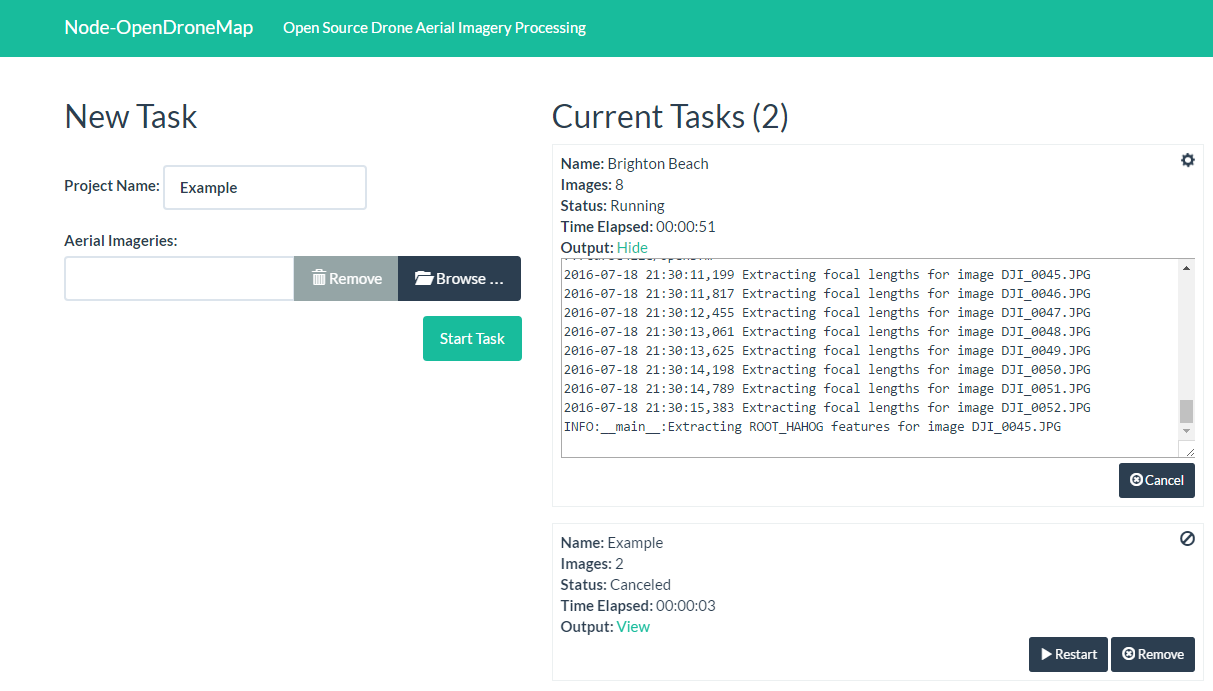
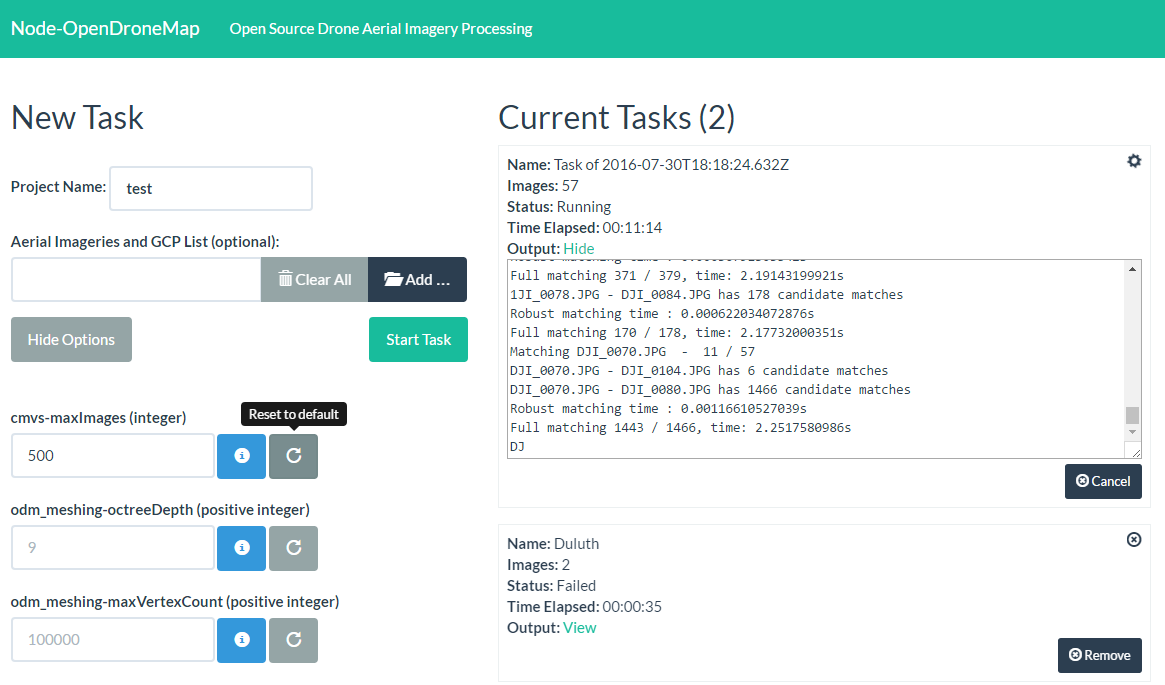
GPC files support, cleanups, options support, testing

diff --git a/libs/Task.js b/libs/Task.js
@@ -16,8 +16,12 @@ You should have received a copy of the GNU General Public License
 along with this program.  If not, see <http://www.gnu.org/licenses/>.
 */
 "use strict";
+
+let async = require('async');
 let assert = require('assert');
+let logger = require('./logger');
 let fs = require('fs');
+let path = require('path');
 let rmdir = require('rimraf');
 let odmRunner = require('./odmRunner');
 let archiver = require('archiver');
@@ -36,16 +40,40 @@ module.exports = class Task{
 		this.processingTime = -1;
 		this.setStatus(statusCodes.QUEUED);
 		this.options = options;
+		this.gpcFiles = [];
 		this.output = [];
 		this.runnerProcess = null;
 
-		// Read images info
-		fs.readdir(this.getImagesFolderPath(), (err, files) => {
-			if (err) done(err);
-			else{
-				this.images = files;
-				done(null, this);
+		async.series([
+			// Read images info
+			cb => {
+				fs.readdir(this.getImagesFolderPath(), (err, files) => {
+					if (err) cb(err);
+					else{
+						this.images = files;
+						logger.debug(`Found ${this.images.length} images for ${this.uuid}`)
+						cb(null);
+					}
+				});
+			},
+
+			// Find GCP (if any)
+			cb => {
+				fs.readdir(this.getGpcFolderPath(), (err, files) => {
+					if (err) cb(err);
+					else{
+						files.forEach(file => {
+							if (/\.txt$/gi.test(file)){
+								this.gpcFiles.push(file);
+							}
+						});
+						logger.debug(`Found ${this.gpcFiles.length} GPC files (${this.gpcFiles.join(" ")}) for ${this.uuid}`);
+						cb(null);
+					}
+				});
 			}
+		], err => {
+			done(err, this);
 		});
 	}
 
@@ -72,6 +100,12 @@ module.exports = class Task{
 	// (relative to nodejs process CWD)
 	getImagesFolderPath(){
 		return `${this.getProjectFolderPath()}/images`;
+	}
+
+	// Get path where GPC file(s) are stored
+	// (relative to nodejs process CWD)
+	getGpcFolderPath(){
+		return `${this.getProjectFolderPath()}/gpc`;
 	}
 
 	// Get path of project (where all images and assets folder are contained)
@@ -194,8 +228,13 @@ module.exports = class Task{
 				return result;
 			}, {});
 
-			runnerOptions["project-path"] = `${__dirname}/../${this.getProjectFolderPath()}`;
+			runnerOptions["project-path"] = fs.realpathSync(this.getProjectFolderPath());
 			runnerOptions["pmvs-num-cores"] = os.cpus().length;
+
+			if (this.gpcFiles.length > 0){
+				runnerOptions["odm_georeferencing-useGcp"] = true;
+				runnerOptions["odm_georeferencing-gcpFile"] = fs.realpathSync(path.join(this.getGpcFolderPath(), this.gpcFiles[0]));
+			}
 
 			this.runnerProcess = odmRunner.run(runnerOptions, (err, code, signal) => {
 					if (err){

diff --git a/public/js/main.js b/public/js/main.js
@@ -59,6 +59,14 @@ $(function(){
         this.saveTaskListToLocalStorage();
     };
 
+    var codes = {
+        QUEUED: 10,
+        RUNNING: 20,
+        FAILED: 30,
+        COMPLETED: 40,
+        CANCELED: 50
+    };
+
     function Task(uuid){
         var self = this;
 
@@ -70,13 +78,6 @@ $(function(){
         this.resetOutput();
         this.timeElapsed = ko.observable("00:00:00");
 
-        var codes = {
-            QUEUED: 10,
-            RUNNING: 20,
-            FAILED: 30,
-            COMPLETED: 40,
-            CANCELED: 50
-        };
         var statusCodes = {
             10: {
                 descr: "Queued",
@@ -205,22 +206,30 @@ $(function(){
         var self = this;
         var url = "/task/remove";
 
-        $.post(url, {
-            uuid: this.uuid
-        })
-        .done(function(json){
-            if (json.success || self.info().error){
-                taskList.remove(self);
-            }else{
-                self.info({error: json.error});
-            }
+        function doRemove(){
+            $.post(url, {
+                uuid: self.uuid
+            })
+            .done(function(json){
+                if (json.success || self.info().error){
+                    taskList.remove(self);
+                }else{
+                    self.info({error: json.error});
+                }
 
-            self.stopRefreshingInfo();
-        })
-        .fail(function(){
-            self.info({error: url + " is unreachable."});
-            self.stopRefreshingInfo();
-        });
+                self.stopRefreshingInfo();
+            })
+            .fail(function(){
+                self.info({error: url + " is unreachable."});
+                self.stopRefreshingInfo();
+            });
+        }
+
+        if (this.info().status && this.info().status.code === codes.COMPLETED){
+            if (confirm("Are you sure?")) doRemove();
+        }else{
+            doRemove();
+        }
     };
 
     function genApiCall(url, onSuccess){
@@ -260,7 +269,7 @@ $(function(){
     $("#images").fileinput({
         uploadUrl: '/task/new',
         showPreview: false,
-        allowedFileExtensions: ['jpg', 'jpeg'],
+        allowedFileExtensions: ['jpg', 'jpeg', 'txt'],
         elErrorContainer: '#errorBlock',
         showUpload: false,
         uploadAsync: false,

diff --git a/index.js b/index.js
@@ -21,6 +21,7 @@ let config = require('./config.js');
 
 let logger = require('./libs/logger');
 let fs = require('fs');
+let path = require('path');
 let async = require('async');
 
 let express = require('express');
@@ -68,6 +69,11 @@ let upload = multer({
 app.post('/task/new', addRequestId, upload.array('images'), (req, res) => {
 	if (req.files.length === 0) res.json({error: "Need at least 1 file."});
 	else{
+		let srcPath = `tmp/${req.id}`;
+		let destPath = `data/${req.id}`;
+		let destImagesPath = `${destPath}/images`;
+		let destGpcPath = `${destPath}/gpc`;
+
 		async.series([
 			cb => {
 				odmOptions.filterOptions(req.body.options, (err, options) => {
@@ -79,18 +85,27 @@ app.post('/task/new', addRequestId, upload.array('images'), (req, res) => {
 				});
 			},
 
-			// Move uploads to data dir
+			// Move all uploads to data/<uuid>/images dir
 			cb => {
-				fs.stat(`data/${req.id}`, (err, stat) => {
+				fs.stat(destPath, (err, stat) => {
 					if (err && err.code === 'ENOENT') cb();
 					else cb(new Error(`Directory exists (should not have happened: ${err.code})`));
 				});
 			},
-			cb => { fs.mkdir(`data/${req.id}`, undefined, cb); },
+			cb => fs.mkdir(destPath, undefined, cb),
+			cb => fs.mkdir(destGpcPath, undefined, cb),
+			cb => fs.rename(srcPath, destImagesPath, cb),
 			cb => {
-				fs.rename(`tmp/${req.id}`, `data/${req.id}/images`, err => {
-					if (!err) cb();
-					else cb(new Error("Could not move images folder."))
+				// Find any *.txt (GPC) file and move it to the data/<uuid>/gpc directory
+				fs.readdir(destImagesPath, (err, entries) => {
+					if (err) cb(err);
+					else{
+						async.eachSeries(entries, (entry, cb) => {
+							if (/\.txt$/gi.test(entry)){
+								fs.rename(path.join(destImagesPath, entry), path.join(destGpcPath, entry), cb);		
+							}else cb();
+						}, cb);
+					}
 				});
 			},
 

diff --git a/libs/TaskManager.js b/libs/TaskManager.js
@@ -91,7 +91,7 @@ module.exports = class TaskManager{
 				async.eachSeries(entries, (entry, cb) => {
 					let dirPath = path.join(DATA_DIR, entry);
 					if (fs.statSync(dirPath).isDirectory() &&
-						entry.match(/[\w\d]+\-[\w\d]+\-[\w\d]+\-[\w\d]+\-[\w\d]+/) &&
+						entry.match(/^[\w\d]+\-[\w\d]+\-[\w\d]+\-[\w\d]+\-[\w\d]+$/) &&
 						!this.tasks[entry]){
 						logger.info(`Found orphaned directory: ${entry}, removing...`);
 						rmdir(dirPath, cb);
@@ -100,7 +100,6 @@ module.exports = class TaskManager{
 			}
 		});
 	}
-
 
 	// Load tasks that already exists (if any)
 	restoreTaskListFromDump(done){
@@ -238,7 +237,7 @@ module.exports = class TaskManager{
 
 		fs.writeFile(TASKS_DUMP_FILE, JSON.stringify(output), err => {
 			if (err) logger.error(`Could not dump tasks: ${err.message}`);
-			else logger.debug("Dumped tasks list.");
+			else logger.info("Dumped tasks list.");
 			if (done !== undefined) done();
 		})
 	}

diff --git a/public/index.html b/public/index.html
@@ -43,7 +43,7 @@
 					<label for="taskName">Project Name:</lable> <input type="text" class="form-control" value="" id="taskName" />
 				</div>
 				<div class="form-group">
-            <label for="images">Aerial Imageries:</label> <input id="images" name="images" multiple type="file">
+            <label for="images">Aerial Imageries and GCP List (optional):</label> <input id="images" name="images" multiple type="file">
             <div id="errorBlock" class="help-block"></div>
         </div>
         <div class="text-right"><input type="submit" class="btn btn-success" value="Start Task" id="btnUpload" /></div>

diff --git a/libs/odmRunner.js b/libs/odmRunner.js
@@ -18,6 +18,7 @@ along with this program.  If not, see <http://www.gnu.org/licenses/>.
 "use strict";
 let spawn = require('child_process').spawn;
 let config = require('../config.js');
+let logger = require('./logger');
 
 module.exports = {
 	run: function(options = {
@@ -38,7 +39,9 @@ module.exports = {
 				command.push(value);
 			}
 		}
-		
+
+		logger.info(`About to run: python ${command.join(" ")}`);
+
 		// Launch
 		let childProcess = spawn("python", command, {cwd: config.odm_path});
 

diff --git a/public/js/locales/LANG.js b/public/js/locales/LANG.js
@@ -14,8 +14,8 @@
     $.fn.fileinputLocales['_LANG_'] = {
         fileSingle: 'file',
         filePlural: 'files',
-        browseLabel: 'Browse &hellip;',
-        removeLabel: 'Remove',
+        browseLabel: 'Add &hellip;',
+        removeLabel: 'Clear All',
         removeTitle: 'Clear selected files',
         cancelLabel: 'Cancel',
         cancelTitle: 'Abort ongoing upload',

diff --git a/public/js/fileinput.js b/public/js/fileinput.js
@@ -3205,8 +3205,8 @@
     $.fn.fileinputLocales.en = {
         fileSingle: 'file',
         filePlural: 'files',
-        browseLabel: 'Browse &hellip;',
-        removeLabel: 'Remove',
+        browseLabel: 'Add &hellip;',
+        removeLabel: 'Clear All',
         removeTitle: 'Clear selected files',
         cancelLabel: 'Cancel',
         cancelTitle: 'Abort ongoing upload',
